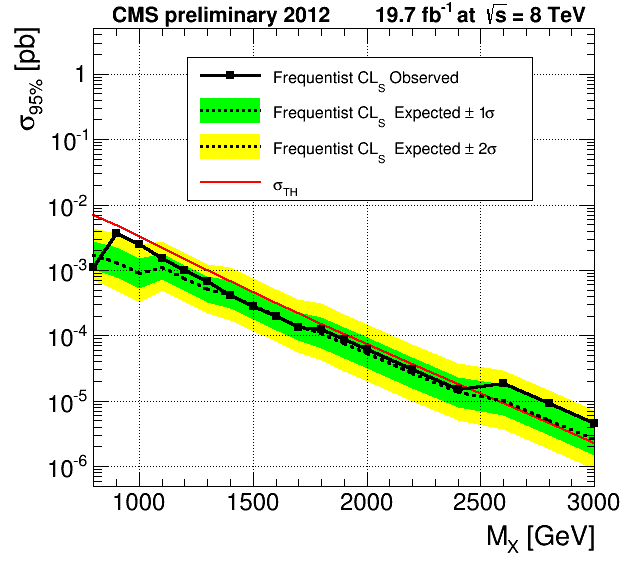
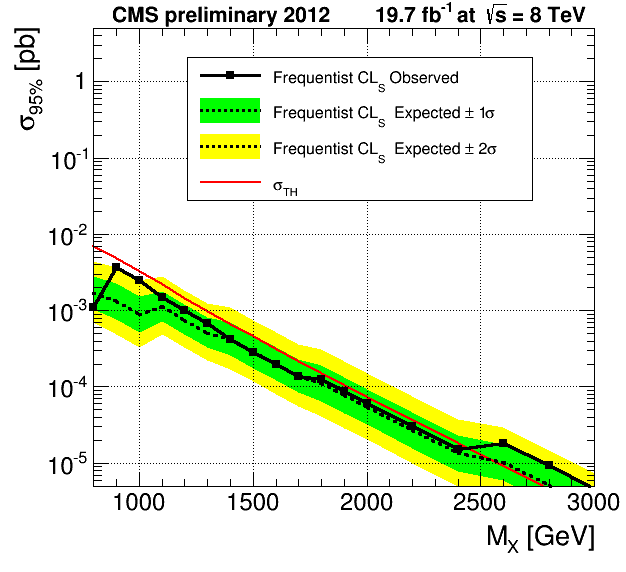
add beyond 2TeV

diff --git a/CLs_results/plot_Asymptotic_beyond.C b/CLs_results/plot_Asymptotic_beyond.C
@@ -405,7 +405,7 @@ void plot_Asymptotic_beyond(string outputname)
 
   // double fr_left = 590.0, fr_down = 1E-5, fr_right = 2000.0, fr_up = 0.5; 
   //double fr_left = 800.0, fr_down = 5E-5, fr_right = 3000.0, fr_up = 5;
-  double fr_left = 800.0, fr_down = 5E-7, fr_right = 3000.0, fr_up = 5;
+  double fr_left = 800.0, fr_down = 5E-6, fr_right = 3000.0, fr_up = 5;
 
   TCanvas *cMCMC = new TCanvas("c_lim_Asymptotic", "canvas with limits for Asymptotic CLs", 630, 600);
   cMCMC->cd();
